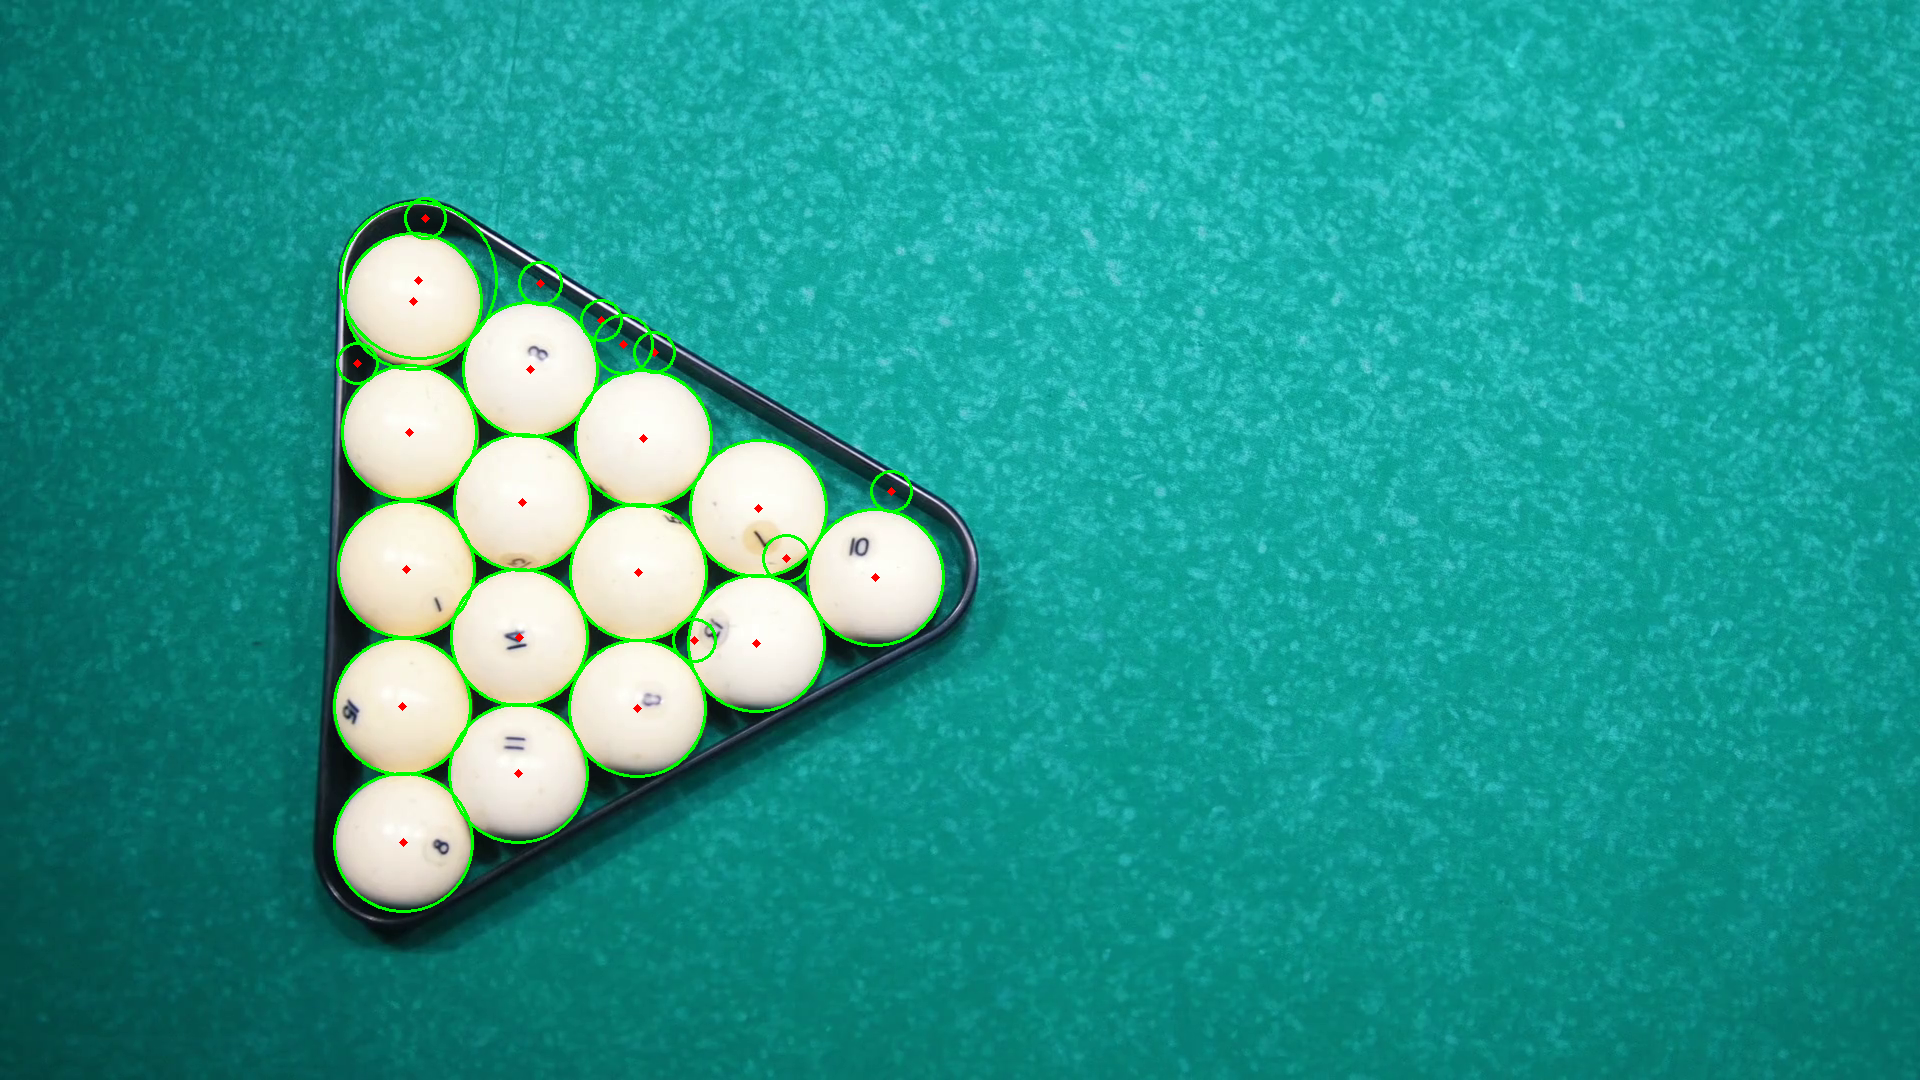
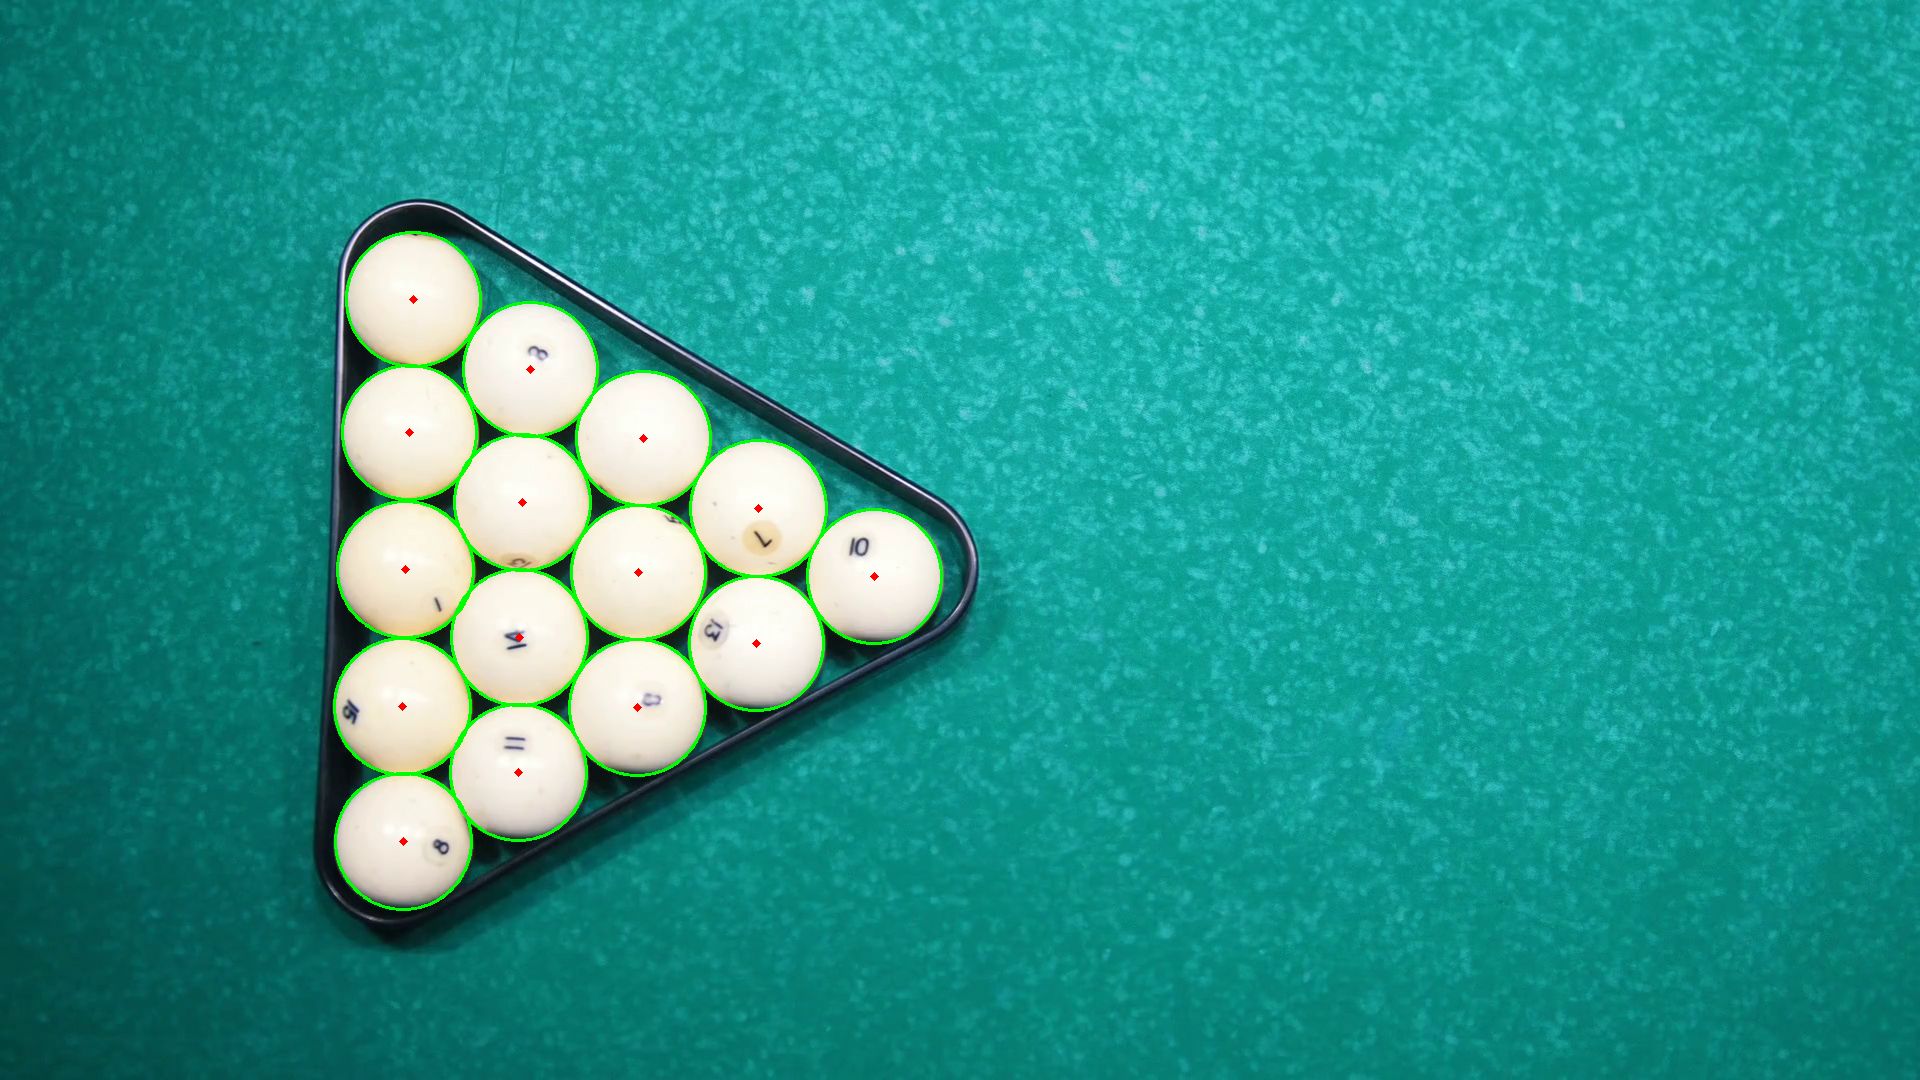
Change parametrs in Edge and Circles

diff --git a/implementation/image_processing_custom.py b/implementation/image_processing_custom.py
@@ -131,12 +131,11 @@ class ImageProcessingCustom(IImageProcessing):
 
         magnitude = np.sqrt(grad_x**2 + grad_y**2)
         max_magnitude = np.max(magnitude)
-        if max_magnitude > 0:
-            magnitude = (magnitude / max_magnitude * 255).astype(np.uint8)
-        else:
-            magnitude = magnitude.astype(np.uint8)
 
-        return magnitude
+        threshold_ratio = 0.15
+        threshold = max_magnitude * threshold_ratio
+        edge_image = ((magnitude > threshold) * 255).astype(np.uint8)
+        return edge_image
 
     def corner_detection(self: ImageProcessingCustom, image: np.ndarray) -> np.ndarray:
         """
@@ -187,21 +186,20 @@ class ImageProcessingCustom(IImageProcessing):
             np.ndarray: Копия изображения с нарисованными найденными окружностями.
         """
         edges = self.edge_detection(image)
-        edges_binary = (edges > 70).astype(np.uint8)
 
-        height, width = edges_binary.shape
-        min_radius, max_radius = 20, 100
+        height, width = edges.shape
+        min_radius, max_radius = 30, 100
         radii = np.arange(min_radius, max_radius)
         accumulator = np.zeros((height, width, len(radii)), dtype=np.uint16)
 
-        edge_pixels = np.argwhere(edges_binary == 1)
+        edge_pixels = np.argwhere(edges == 1)
 
         logging.info("Выполняется голосование в пространстве Хафа...")
         accumulator = self._hough_vote(edge_pixels, radii, accumulator)
 
         logging.info("Поиск локальных максимумов и фильтрация результатов...")
-        threshold = 120
-        min_dist = 20
+        threshold = 160
+        min_dist = 30
 
         strong_circles_indices = np.argwhere(accumulator > threshold)
         strong_circles_values = accumulator[

diff --git a/README.md b/README.md
@@ -36,7 +36,7 @@
 2.  **Создайте и активируйте виртуальное окружение:**
     ```bash
     python3 -m venv .venv
-        
+    source .venv/bin/activate
     ```
 
 3.  **Установите зависимости:**
